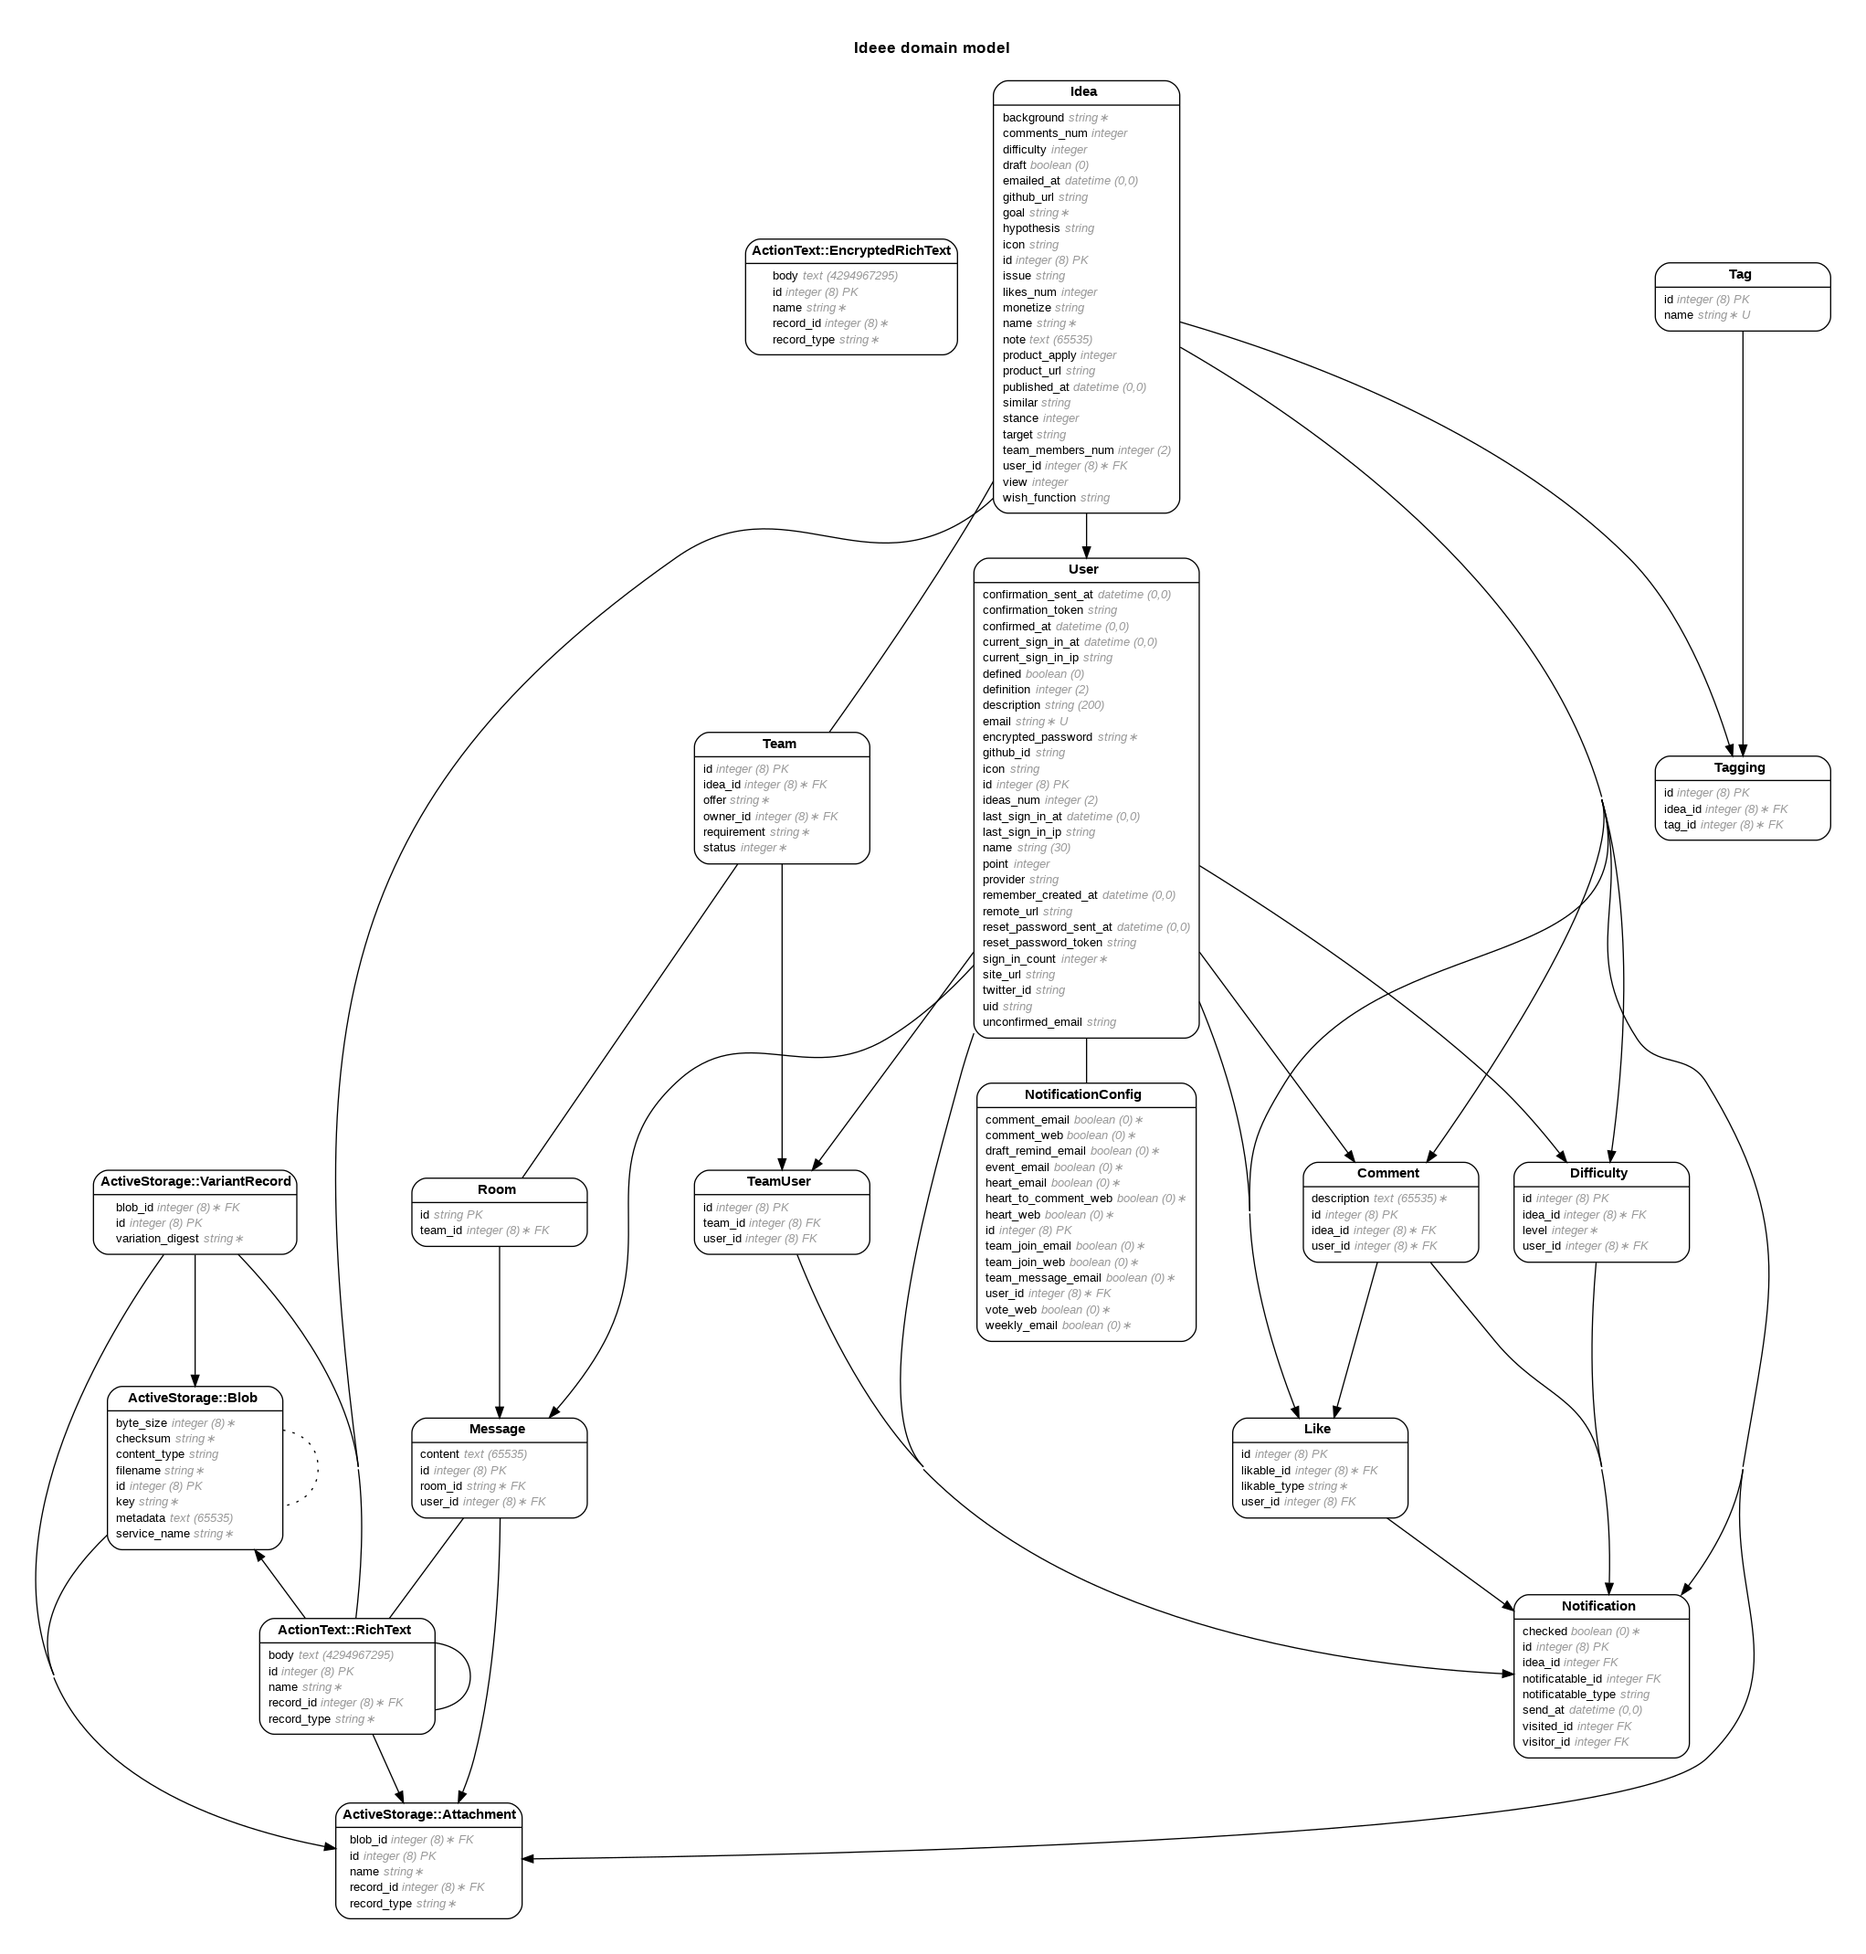
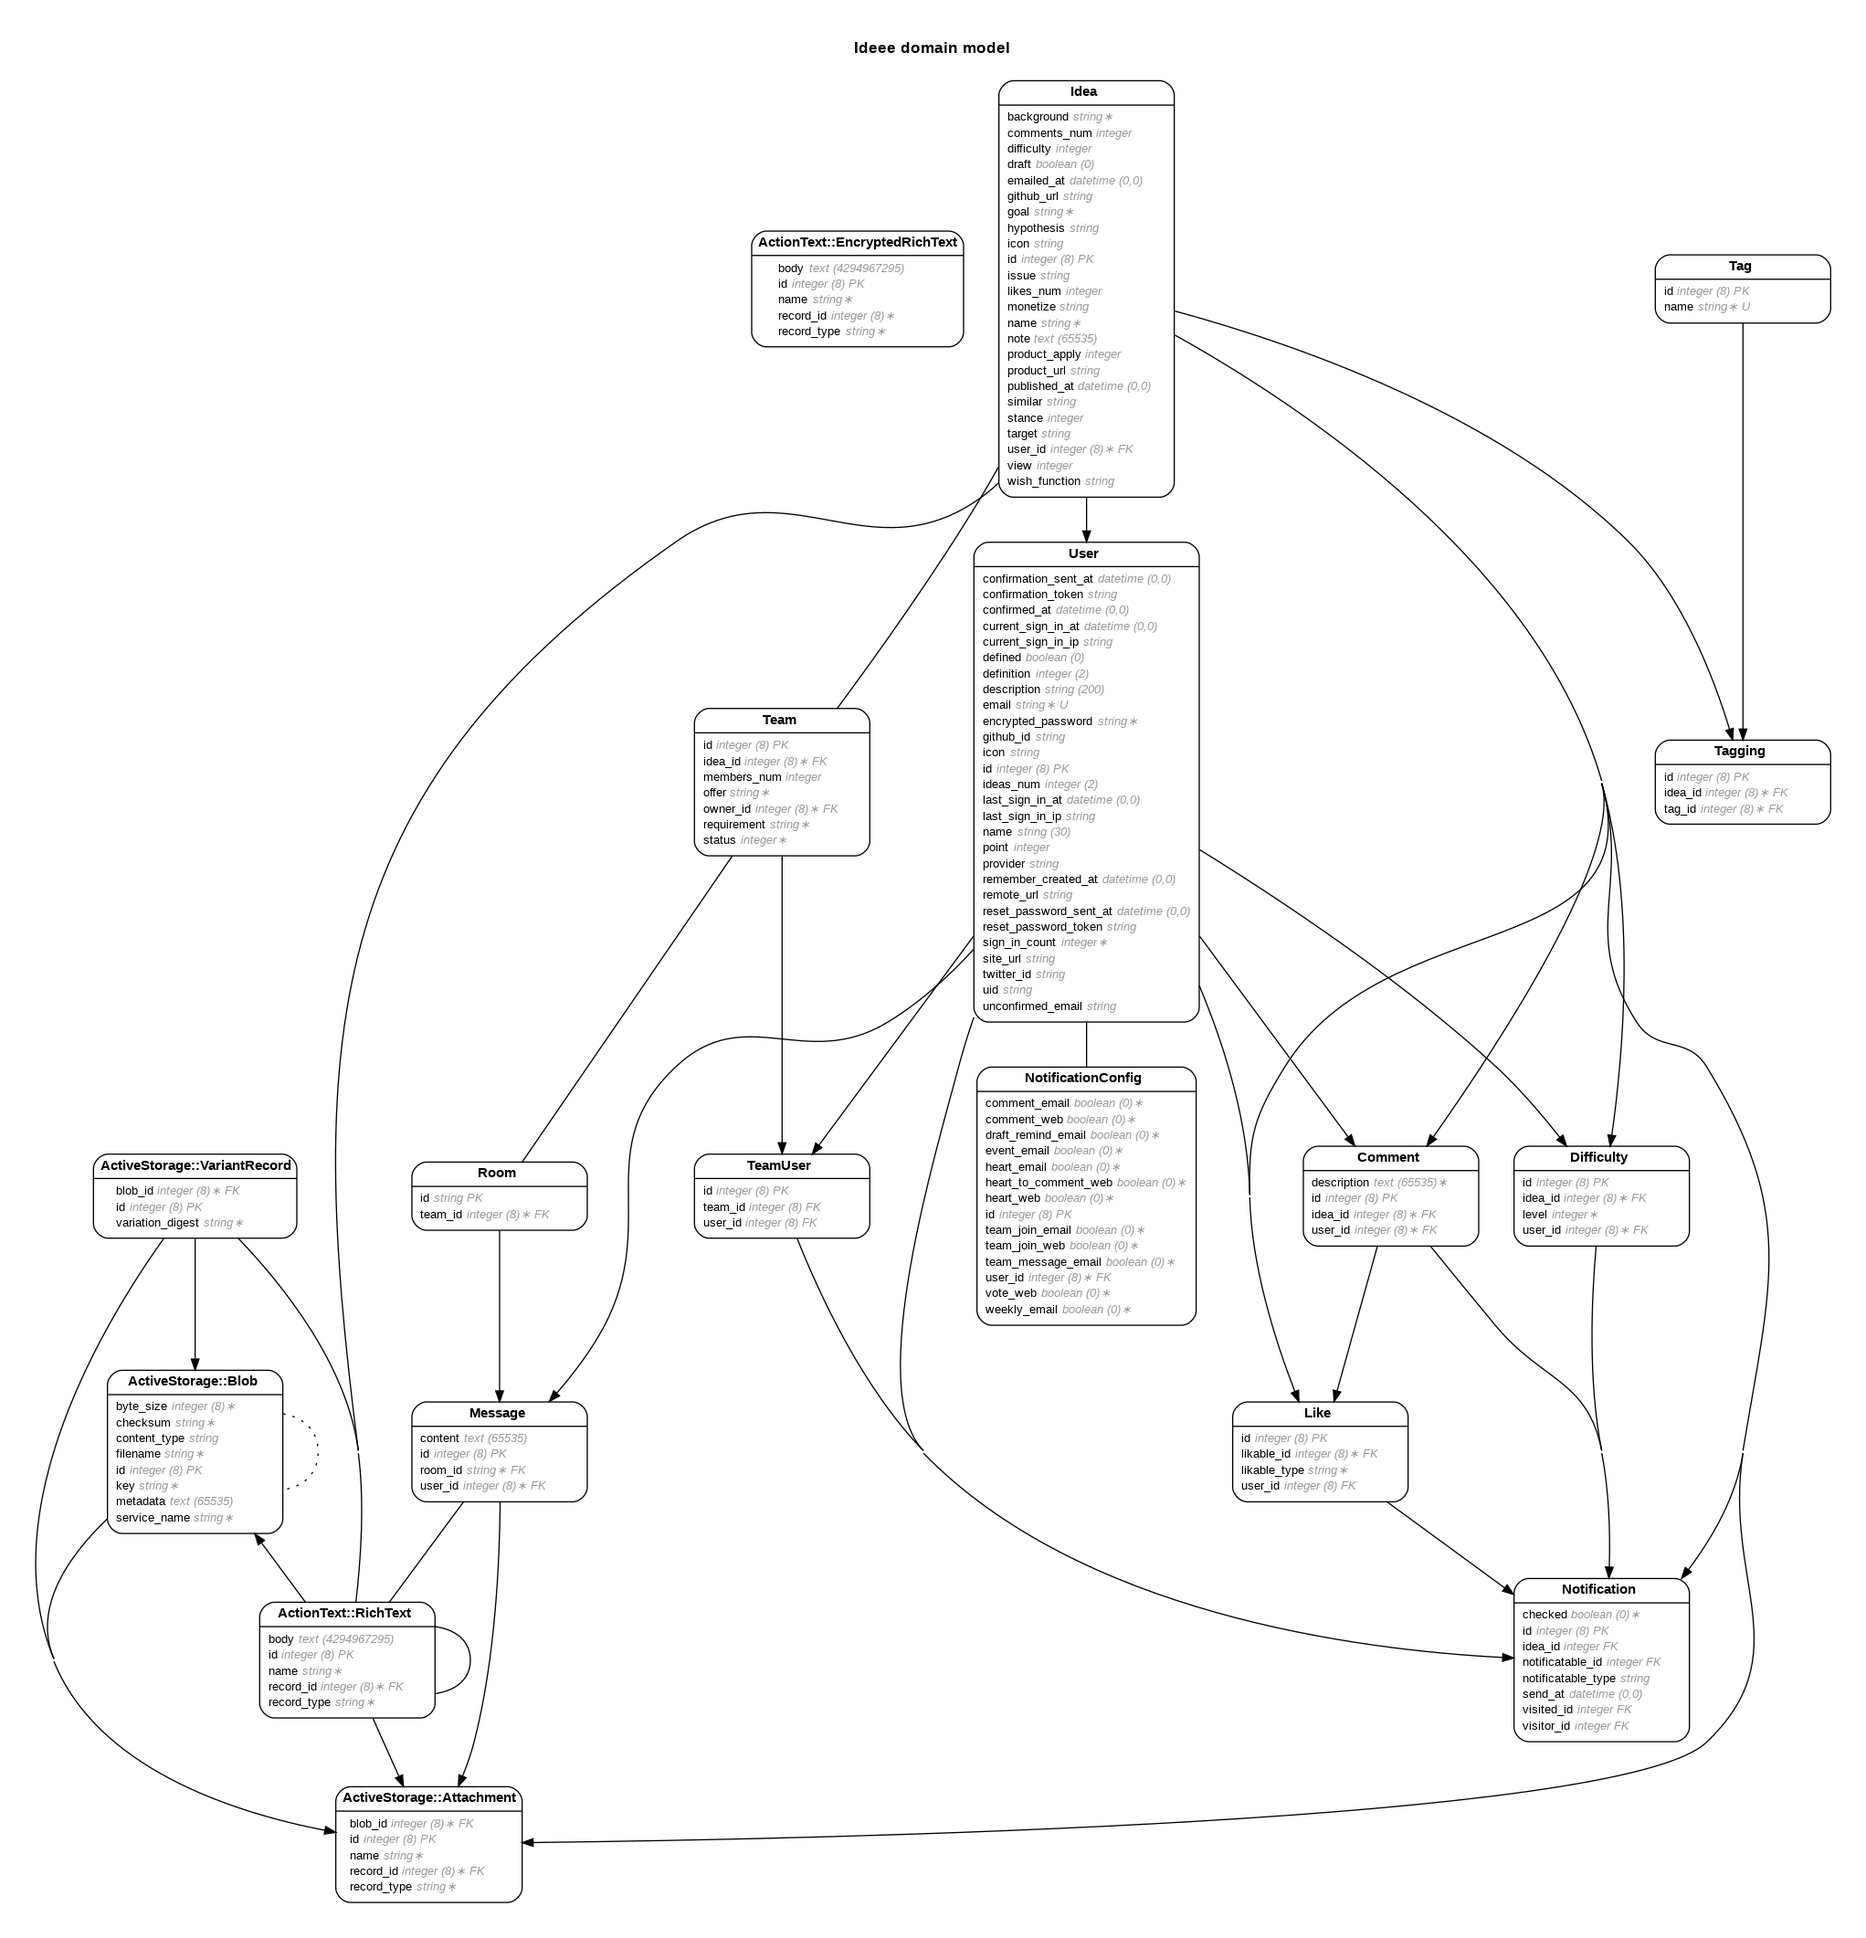
#965 update: ideaのteam_members_numをteamに設定

diff --git a/db/schema.rb b/db/schema.rb
@@ -10,7 +10,7 @@
 #
 # It's strongly recommended that you check this file into your version control system.
 
-ActiveRecord::Schema[7.0].define(version: 2023_01_29_082846) do
+ActiveRecord::Schema[7.0].define(version: 2023_02_23_112413) do
   create_table "action_text_rich_texts", charset: "utf8mb4", force: :cascade do |t|
     t.string "name", null: false
     t.text "body", size: :long
@@ -101,7 +101,6 @@ ActiveRecord::Schema[7.0].define(version: 2023_01_29_082846) do
     t.string "github_url"
     t.string "monetize"
     t.integer "stance", default: 0
-    t.integer "team_members_num", limit: 2, default: 0
     t.index ["user_id"], name: "index_ideas_on_user_id"
   end
 
@@ -197,6 +196,7 @@ ActiveRecord::Schema[7.0].define(version: 2023_01_29_082846) do
     t.string "offer", null: false
     t.datetime "created_at", null: false
     t.datetime "updated_at", null: false
+    t.integer "members_num", default: 0
     t.index ["idea_id"], name: "index_teams_on_idea_id"
     t.index ["owner_id"], name: "index_teams_on_owner_id"
     t.index ["status", "owner_id"], name: "index_teams_on_status_and_owner_id"

diff --git a/spec/factories/ideas.rb b/spec/factories/ideas.rb
@@ -25,7 +25,6 @@
 #  similar                                                  :string(255)
 #  stance                                                   :integer          default("free_right")
 #  target                                                   :string(255)
-#  team_members_num                                         :integer          default(0)
 #  view                                                     :integer          default(0)
 #  wish_function                                            :string(255)
 #  created_at                                               :datetime         not null

diff --git a/app/controllers/ideas_controller.rb b/app/controllers/ideas_controller.rb
@@ -86,7 +86,7 @@ class IdeasController < ApplicationController
   def search
     @q = Idea.published.eager_load(%i[idea_tags taggings]).preload(:user).ransack(ransack_params)
     @q.sorts = 'likes_num desc' if @q.sorts.empty? # 初期はハート数を降順に設定
-    @searched_ideas = @q.result(distinct: true)
+    @searched_ideas = @q.result
     @paged_ideas = Kaminari.paginate_array(@searched_ideas).page(params[:page])
     current_page = params[:page].nil? ? 1 : params[:page].to_i
     @rank_num = (current_page - 1) * @paged_ideas.limit_value

diff --git a/app/models/idea.rb b/app/models/idea.rb
@@ -137,11 +137,7 @@ class Idea < ApplicationRecord
     view > 10
   end
 
-  def count_team_members
-    update(team_members_num: team.members.size)
-  end
-
   def enough_team_member?
-    team_project? && team_members_num.positive?
+    team_project? && team.members_num.positive?
   end
 end

diff --git a/app/models/team.rb b/app/models/team.rb
@@ -5,6 +5,7 @@
 # Table name: teams
 #
 #  id          :bigint           not null, primary key
+#  members_num :integer          default(0)
 #  offer       :string(255)      not null
 #  requirement :string(255)      not null
 #  status      :integer          default("active"), not null

diff --git a/spec/factories/teams.rb b/spec/factories/teams.rb
@@ -5,6 +5,7 @@
 # Table name: teams
 #
 #  id          :bigint           not null, primary key
+#  members_num :integer          default(0)
 #  offer       :string(255)      not null
 #  requirement :string(255)      not null
 #  status      :integer          default("active"), not null

diff --git a/app/controllers/teams_controller.rb b/app/controllers/teams_controller.rb
@@ -37,7 +37,6 @@ class TeamsController < ApplicationController
 
   def join
     @team.team_users.create!(user: current_user)
-    @idea.count_team_members
     Notifications::JoinTeamJob.perform_later(current_user, @idea)
     redirect_to @idea, notice: t('.success')
   end

diff --git a/app/models/team_user.rb b/app/models/team_user.rb
@@ -20,4 +20,5 @@ class TeamUser < ApplicationRecord
   belongs_to :user
   belongs_to :team
   has_many :notifications, dependent: :destroy, as: :notificatable
+  counter_culture :team, column_name: 'members_num'
 end

diff --git a/db/migrate/20230223112413_move_team_members_num.rb b/db/migrate/20230223112413_move_team_members_num.rb
@@ -1,0 +1,6 @@
+class MoveTeamMembersNum < ActiveRecord::Migration[7.0]
+  def change
+    remove_column :ideas, :team_members_num, :integer
+    add_column :teams, :members_num, :integer, default: 0
+  end
+end
